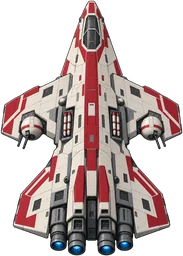
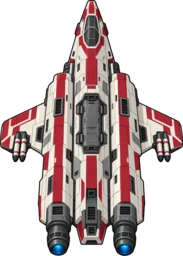
Empires At War: art for the bombers, corvette and ion frigate
Generated sprites and tech icons for the new ships, replacing the
stand-ins; sprite proportions and engine glows measured off the art.

diff --git a/src/apps/games/empires/data.ts b/src/apps/games/empires/data.ts
@@ -145,13 +145,13 @@ export const UNITS: UnitType[] = [
   {
     id: 'r-bomber', faction: 'republic', tier: 'fighter', kind: 'bomber', name: 'Hammer bomber', blurb: 'Armoured bombers, two to a squadron. Heavy proton bombs for capital ships and stations; easy prey for fighters.',
     sprite: 'republic-bomber', aspect: 0.715, size: 42, hull: 150, shield: 40, regen: 3, speed: 165, turn: 2.6, pop: 2, cost: 450, build: 16, level: 2, squad: 2, sensor: 650,
-    weapons: [laser(5, 220, 0.6), torpedo(75, 240, 6)], hardpoints: [], engines: [[3.6, 9.6], [6.4, 9.6]],
+    weapons: [laser(5, 220, 0.6), torpedo(75, 240, 6)], hardpoints: [], engines: [[3.3, 9.6], [6.8, 9.6]],
     role: { role: 'Bomber', strong: ['cruisers', 'flagships', 'stations'], weak: ['fighters', 'gunships', 'frigates'] },
   },
   {
     id: 'r-corvette', faction: 'republic', tier: 'gunship', kind: 'support', name: 'Mercy corvette', blurb: 'Repair tender: its work crews patch up the hulls of nearby ships. Lightly armed; keep it behind the line.',
-    sprite: 'republic-corvette', aspect: 0.652, size: 86, hull: 520, shield: 260, regen: 8, speed: 135, turn: 1.8, pop: 2, cost: 550, build: 18, level: 2, squad: 1, sensor: 900,
-    weapons: [flak(5, 280, 0.4)], hardpoints: [], engines: [[4, 9.6], [6, 9.6]],
+    sprite: 'republic-corvette', aspect: 0.653, size: 86, hull: 520, shield: 260, regen: 8, speed: 135, turn: 1.8, pop: 2, cost: 550, build: 18, level: 2, squad: 1, sensor: 900,
+    weapons: [flak(5, 280, 0.4)], hardpoints: [], engines: [[3.5, 9.4], [5, 9.5], [6.6, 9.4]],
     support: { range: 520, repair: 16, max: 6 },
     role: { role: 'Repair tender', strong: ['long fights'], weak: ['fighters', 'anything that catches it alone'] },
   },
@@ -213,14 +213,14 @@ export const UNITS: UnitType[] = [
   },
   {
     id: 'd-bomber', faction: 'droid', tier: 'fighter', kind: 'bomber', name: 'Locust bomber', blurb: 'Droid bombers, three to a squadron. Cheap, fragile, and their bomb pods wreck big hulls.',
-    sprite: 'droid-bomber', aspect: 0.963, size: 36, hull: 85, shield: 0, regen: 0, speed: 185, turn: 3, pop: 2, cost: 400, build: 13, level: 2, squad: 3, sensor: 620,
-    weapons: [laser(4, 220, 0.6), torpedo(48, 230, 6)], hardpoints: [], engines: [[5, 9]],
+    sprite: 'droid-bomber', aspect: 0.96, size: 36, hull: 85, shield: 0, regen: 0, speed: 185, turn: 3, pop: 2, cost: 400, build: 13, level: 2, squad: 3, sensor: 620,
+    weapons: [laser(4, 220, 0.6), torpedo(48, 230, 6)], hardpoints: [], engines: [[5, 8.6]],
     role: { role: 'Bomber', strong: ['cruisers', 'flagships', 'stations'], weak: ['fighters', 'gunships', 'frigates'] },
   },
   {
     id: 'd-ion', faction: 'droid', tier: 'frigate', kind: 'ion', name: 'Disruptor frigate', blurb: 'One huge ion cannon that tears down shields in a few shots, leaving the hull open to everything else. Barely scratches bare armour.',
-    sprite: 'droid-ion', aspect: 0.493, size: 140, hull: 900, shield: 380, regen: 9, speed: 92, turn: 0.95, pop: 3, cost: 780, build: 22, level: 2, squad: 1, sensor: 1000,
-    weapons: [ion(70), flak(5, 300, 0.4)], hardpoints: [], engines: [[4.2, 9.6], [5.8, 9.6]],
+    sprite: 'droid-ion', aspect: 0.435, size: 140, hull: 900, shield: 380, regen: 9, speed: 92, turn: 0.95, pop: 3, cost: 780, build: 22, level: 2, squad: 1, sensor: 1000,
+    weapons: [ion(70), flak(5, 300, 0.4)], hardpoints: [], engines: [[2.8, 9.5], [7.2, 9.5]],
     role: { role: 'Shield breaker', strong: ['shielded warships', 'stations'], weak: ['fighters', 'unshielded ships'] },
   },
   {
